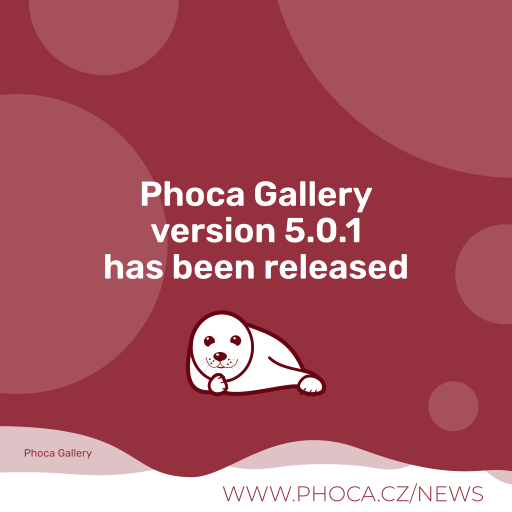
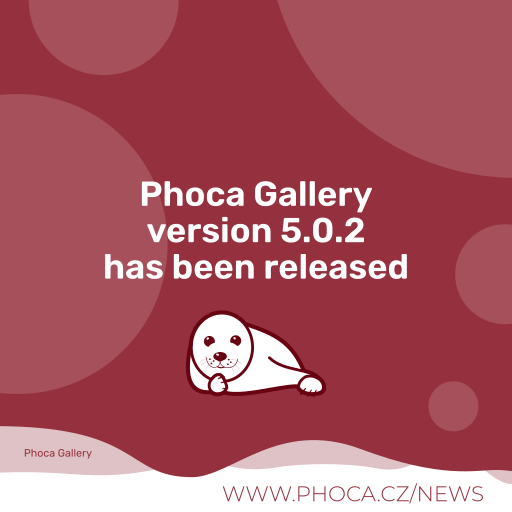
5.0.2

Changed region(s): [[0.2812, 0.4062, 0.7188, 0.5]]

diff --git a/script.php b/script.php
@@ -329,6 +329,46 @@ a.upItemLink::before {
     color: #fff;
 }
 
+.phTemplateItems {
+    display: flex;
+    flex-wrap: wrap;
+    margin-top:1em;
+    margin-bottom: 2em;
+}
+
+.phTemplateItem {
+    padding: 1em;
+    text-align: center;
+    width: calc(33% - 0.4em);
+    margin: 0.2em;
+    border-radius: 0.3em;
+}
+
+.phTemplateItem img{
+    width: 100%;
+    height: auto;
+}
+
+.phTemplateItemsInfo {
+    margin: 1em auto;
+}
+.phTemplateItemTitle {
+    font-size: small;
+}
+
+.phTemplateItem a::before {
+    content: none;
+}
+
+.phTemplateItemTitle,
+.phTemplateItemsInfo {
+    color: #fff;
+}
+
+.g5-actions a.g5-button {
+	color: #fff;
+}
+
 </style>";
 	}
 

diff --git a/README.MD b/README.MD
@@ -150,7 +150,7 @@ Phoca Gallery is an efficient image gallery extension for Joomla! CMS.
 
 ## Version (Joomla! 5.x)
 
-5.0.1
+5.0.2
 
 
 
